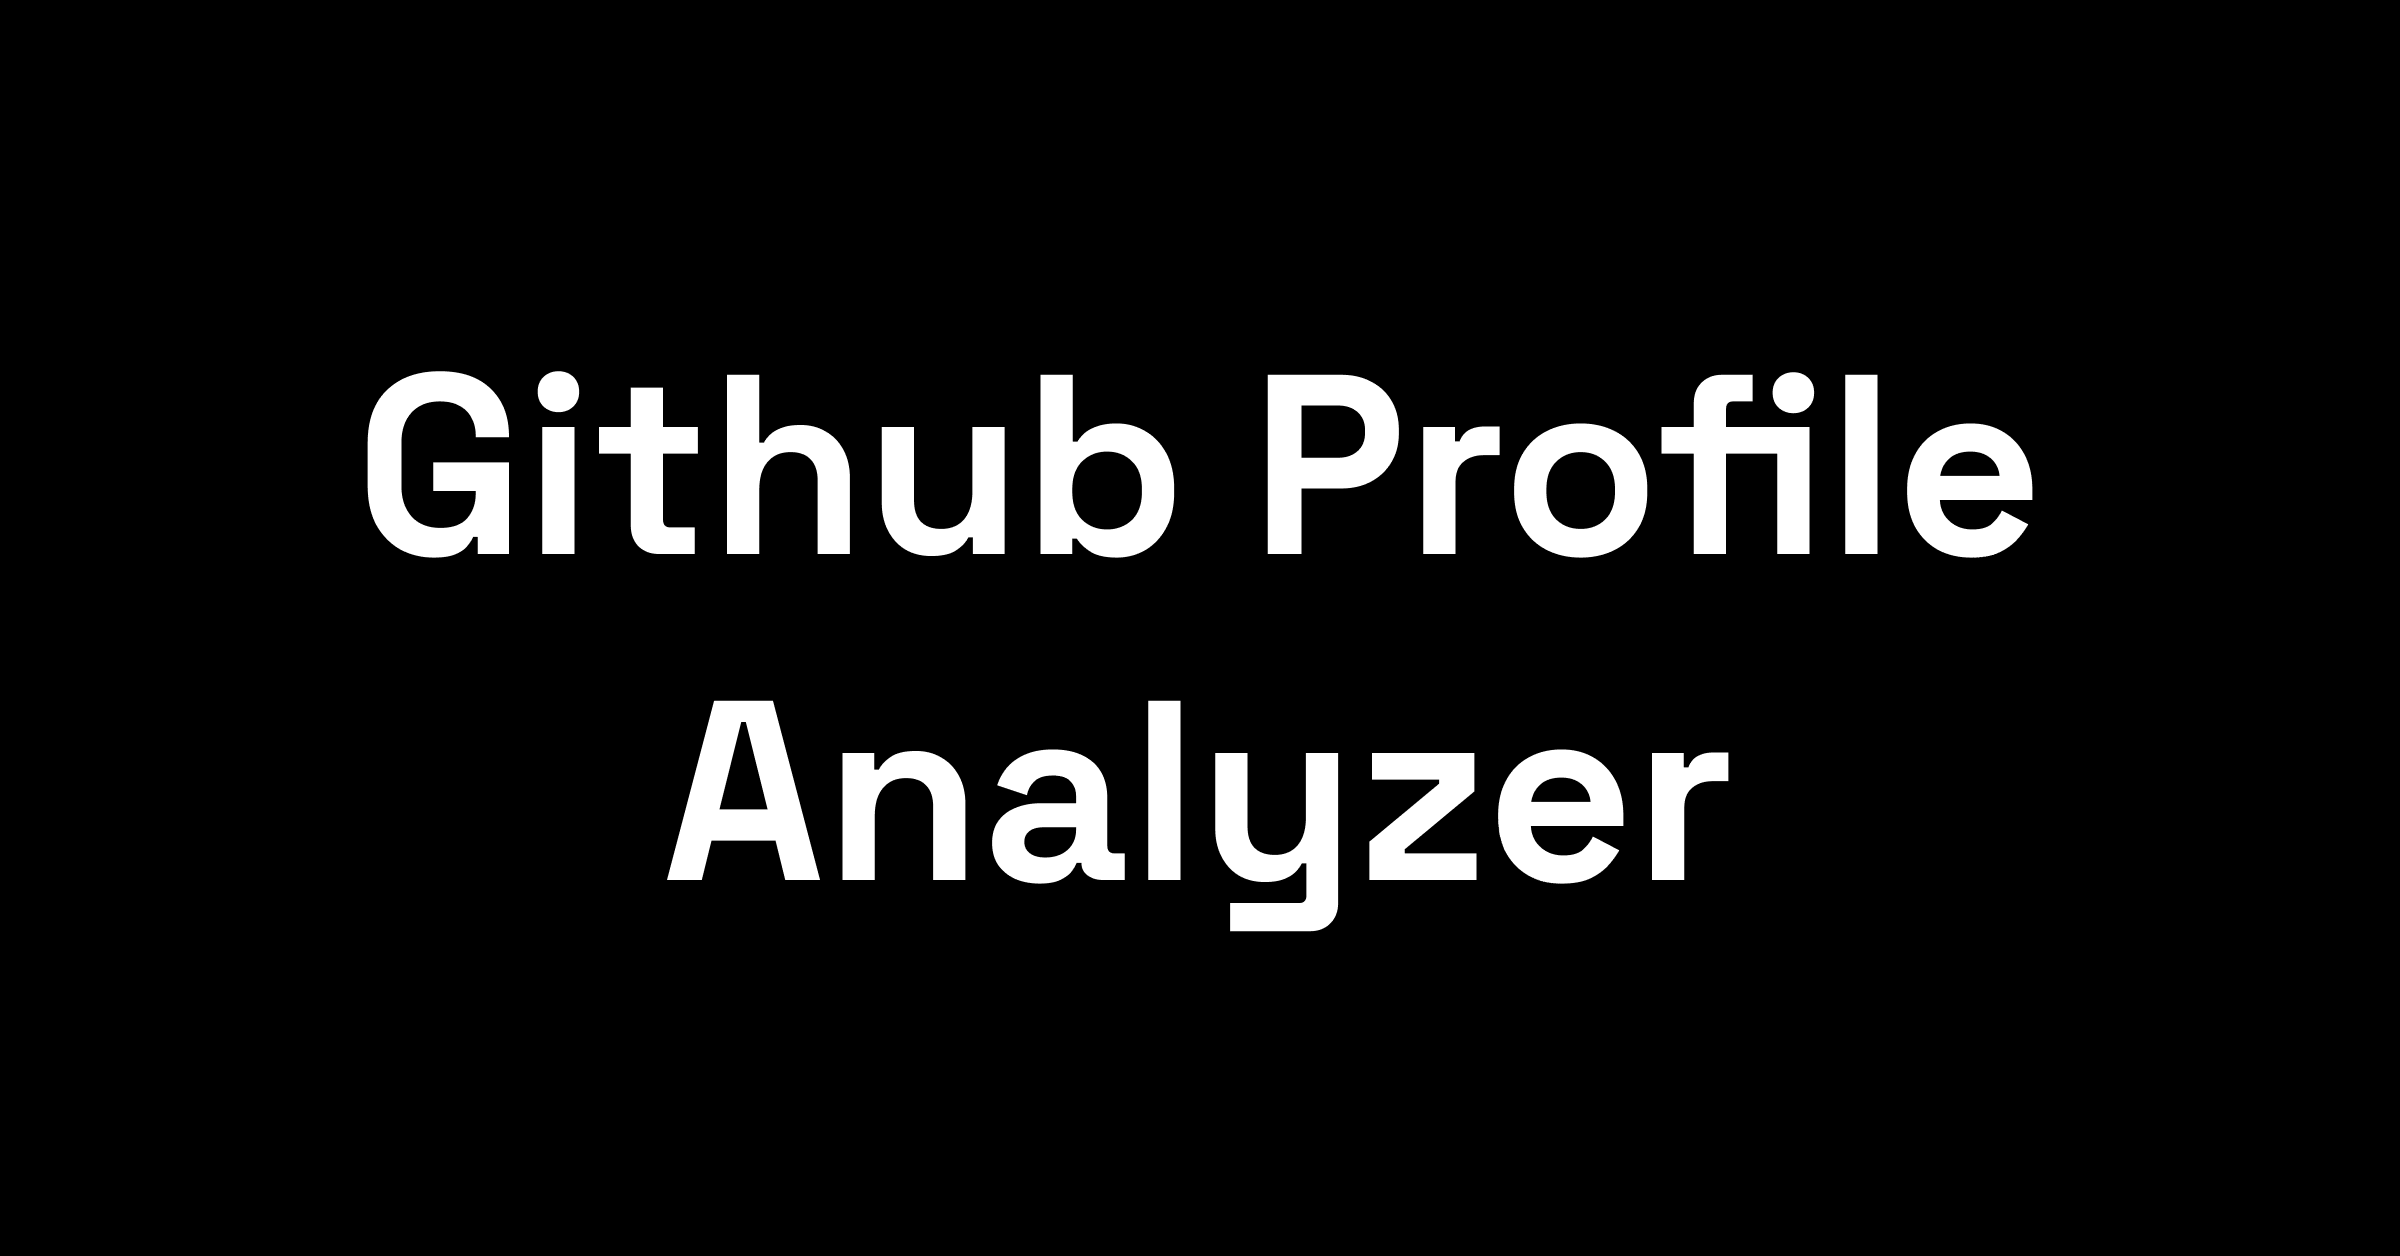
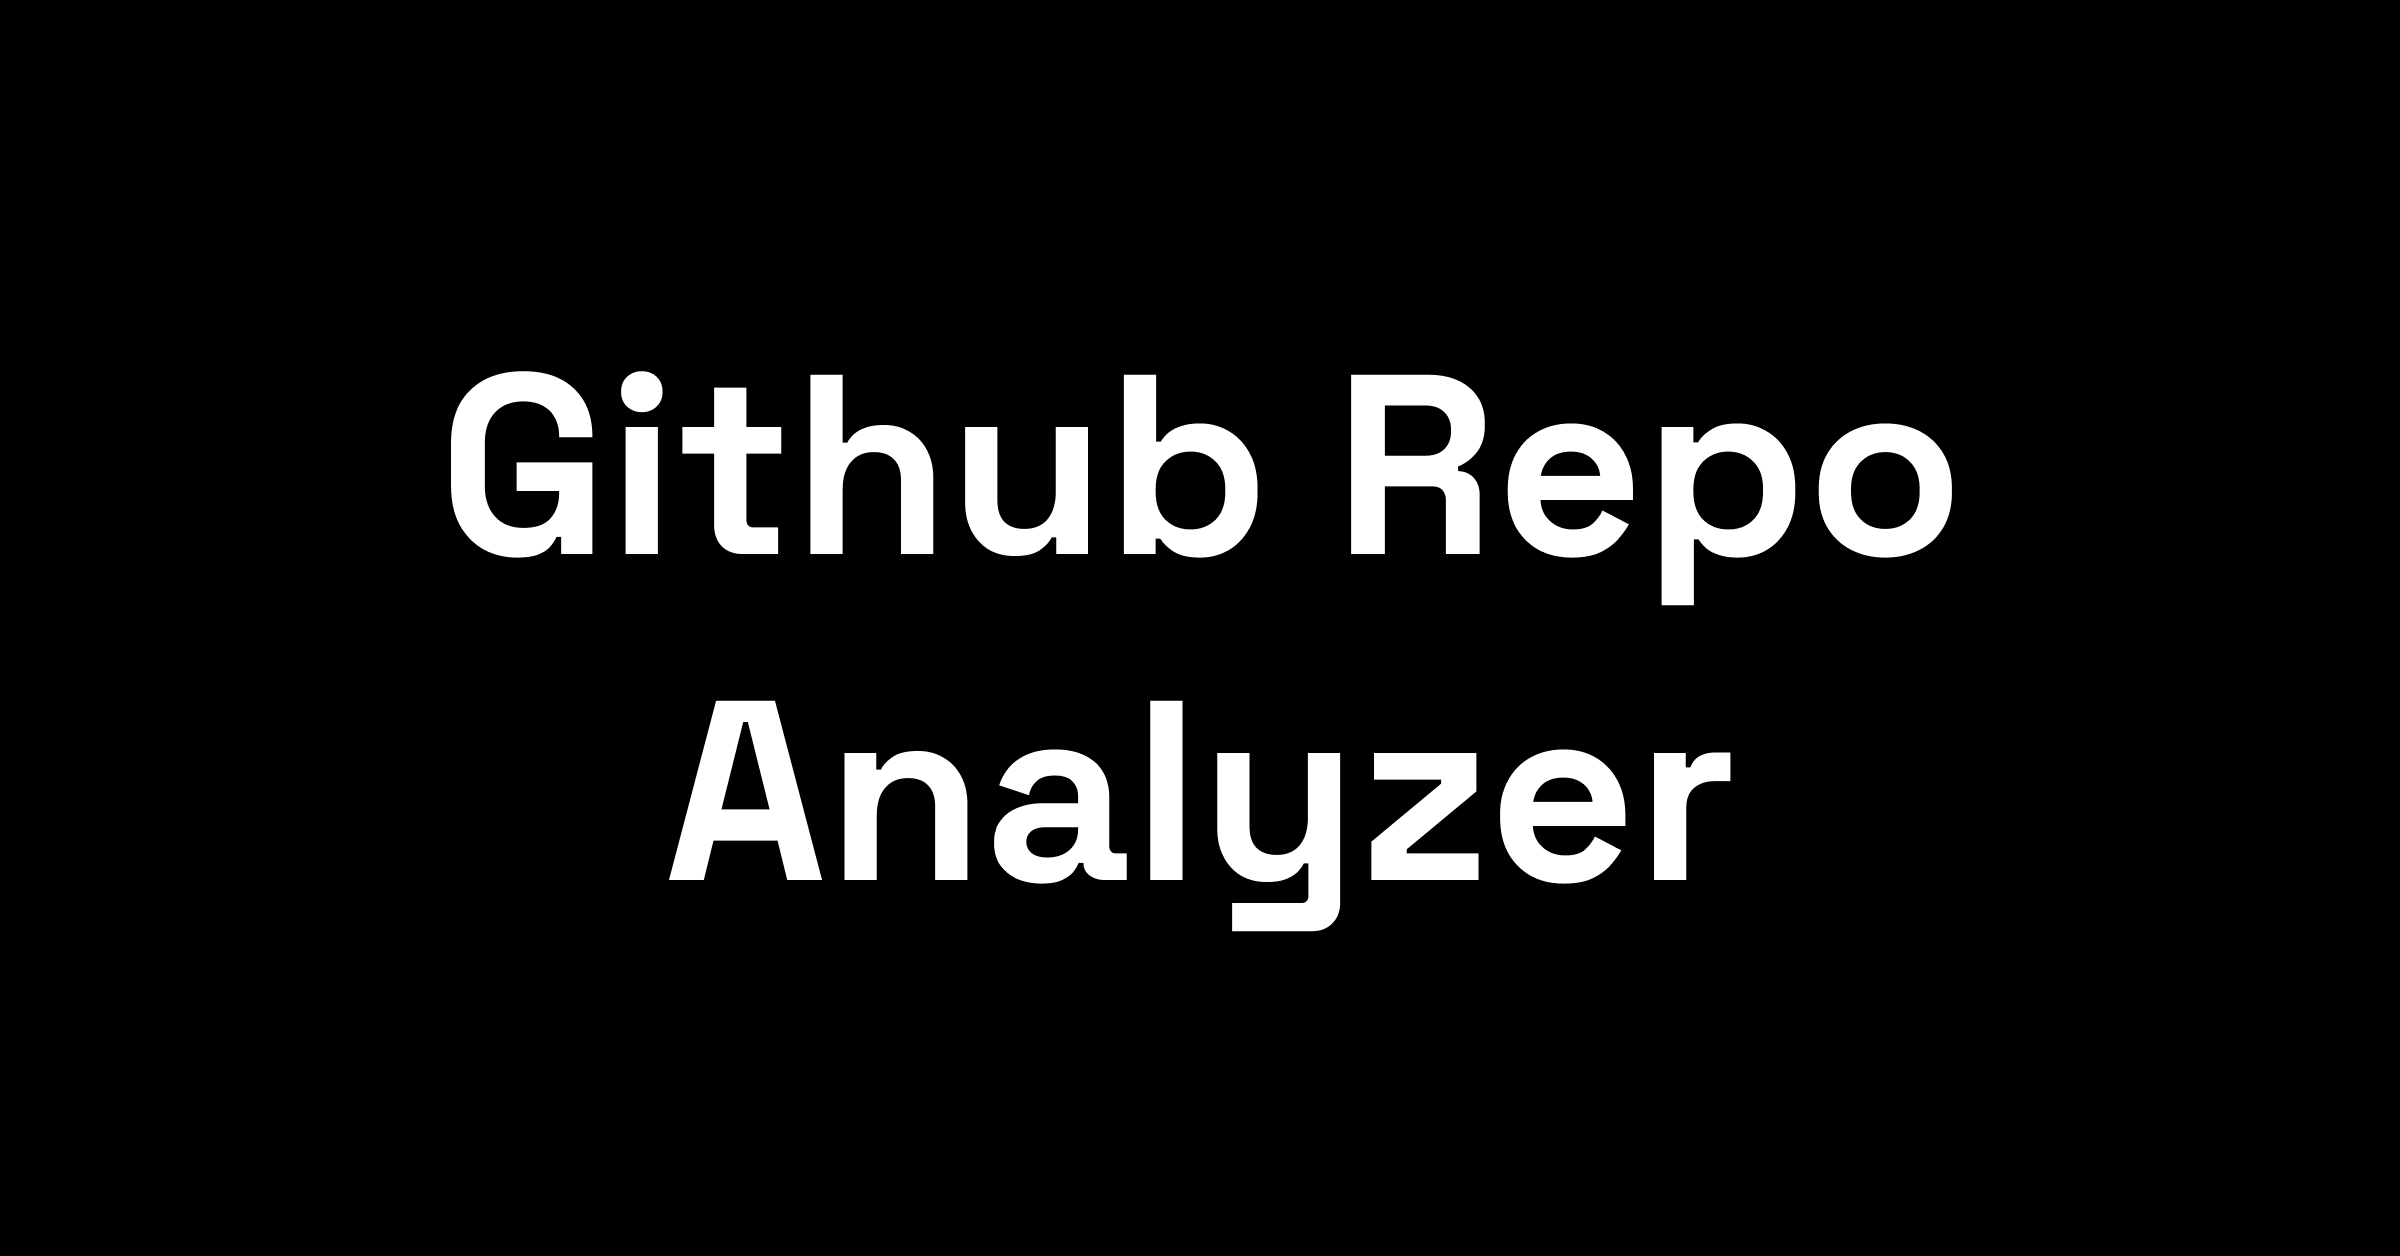
meta info

Changed region(s): [[0.125, 0.2795, 0.8438, 0.4968]]

diff --git a/frontend/app/layout.tsx b/frontend/app/layout.tsx
@@ -11,7 +11,7 @@ const spaceGrotesk = Space_Grotesk({
 
 
 export const metadata: Metadata = {
-  title: "Github Profile Analyzer",
+  title: "Github Repo Analyzer",
   description: "Get key insights for a Github Profile in seconds.",
   icons: {
     icon: "/favicon.png",  
